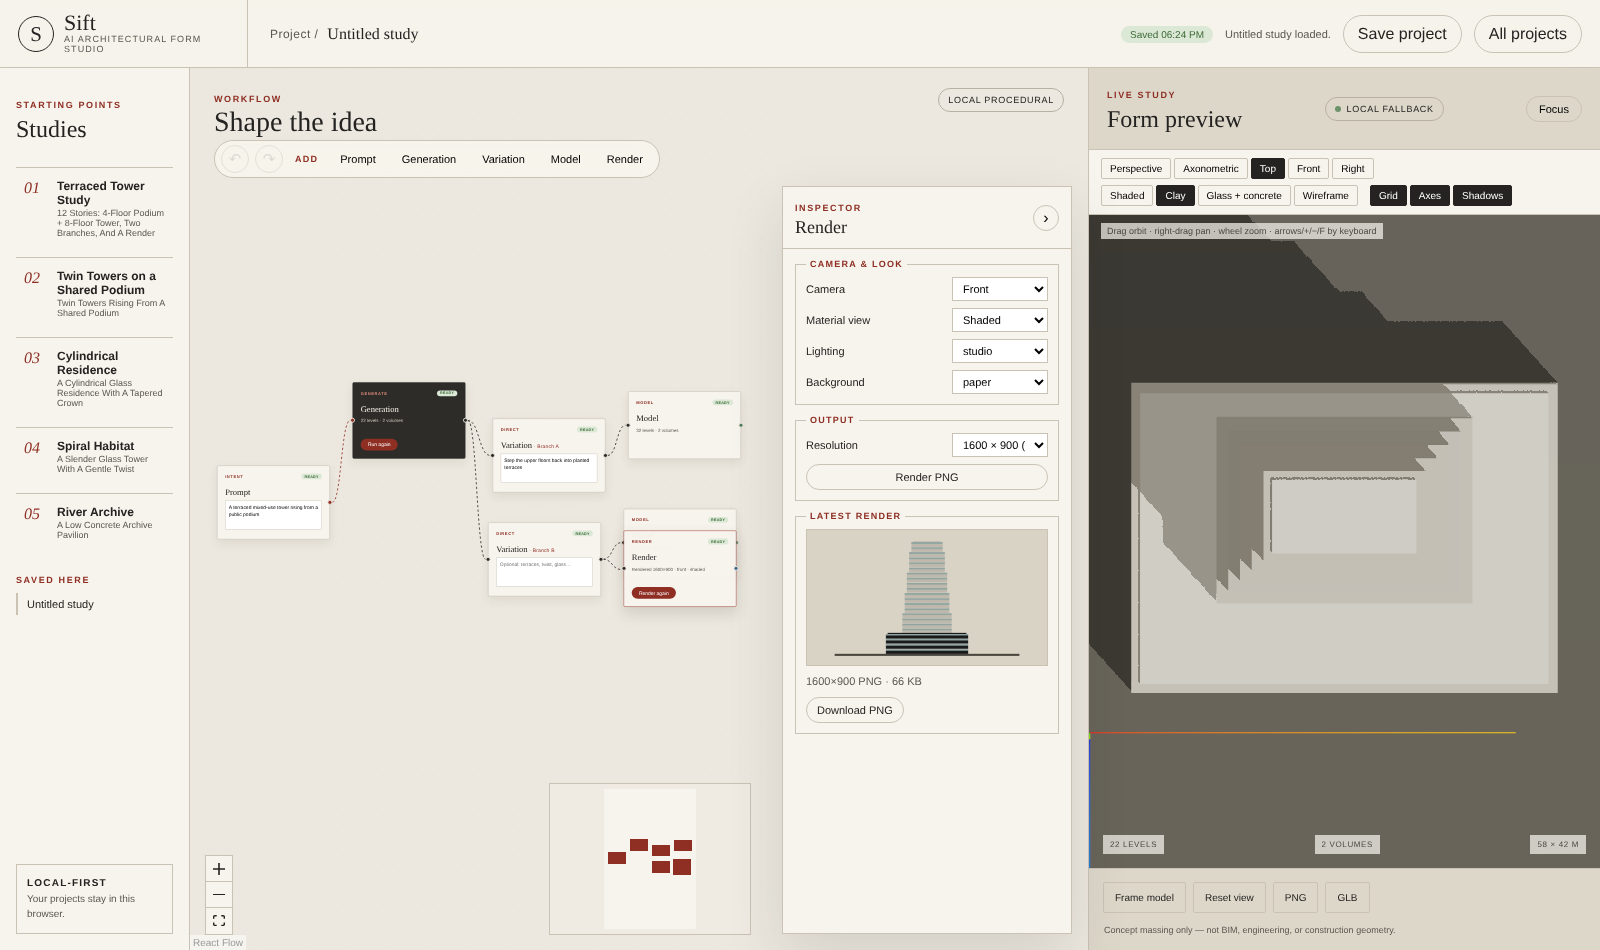
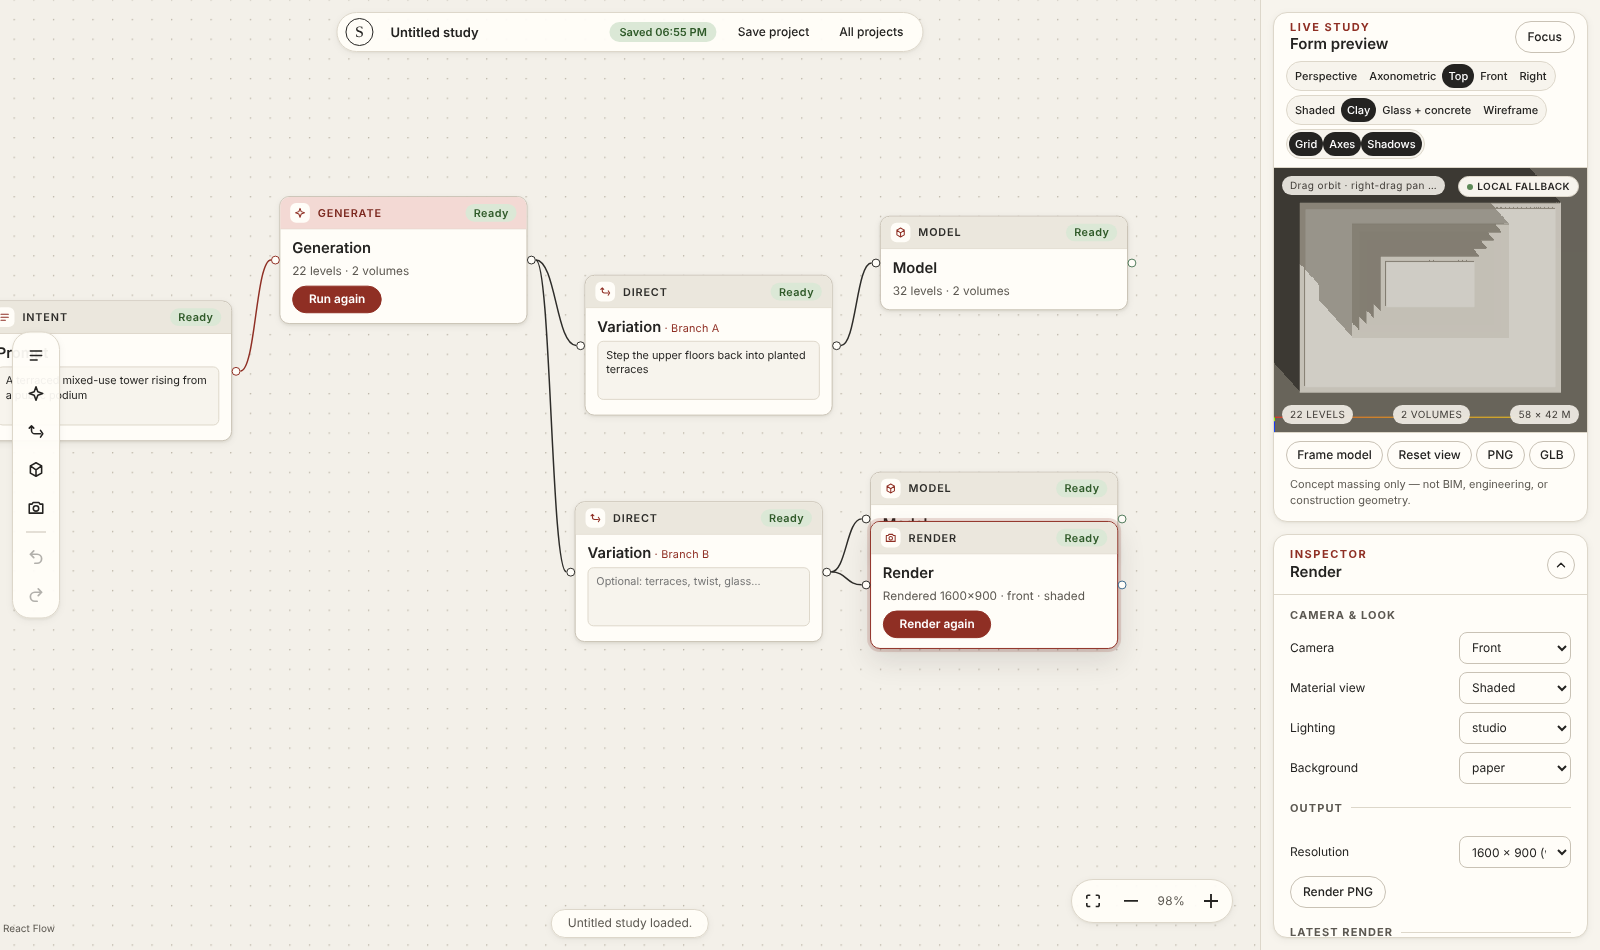
Dead-code cleanup: remove lineageOf, add @eslint/js, refresh evidence screenshots for the current UI
Claude-Session: https://claude.ai/code/session_017MLLks6UEDc3Auc7NodS6K

diff --git a/src/lib/workflow.ts b/src/lib/workflow.ts
@@ -294,24 +294,6 @@ export function commitVariations(state: RunInput, newId: (prefix: string) => str
 
 export type LineageEntry = { artifactId: string; createdAt: string; origin: string; instruction: string; current: boolean };
 
-/** Root-to-leaf chain of artifacts ending at `artifactId`, following revisions back to the original generation. */
-export function lineageOf(revisions: Record<string, DesignRevision>, artifacts: Record<string, Artifact>, artifactId: string | undefined): LineageEntry[] {
-  const chain: LineageEntry[] = [];
-  const seen = new Set<string>();
-  let current = artifactId;
-  let instruction = "";
-  while (current && artifacts[current] && !seen.has(current)) {
-    seen.add(current);
-    const artifact = artifacts[current];
-    chain.unshift({ artifactId: current, createdAt: artifact.createdAt, origin: String(artifact.metadata.origin ?? "generation"), instruction, current: current === artifactId });
-    const revision = Object.values(revisions).find((item) => item.childArtifactId === current);
-    instruction = revision?.instruction ?? "";
-    current = revision?.parentArtifactId;
-  }
-  // instruction describes the step that *produced* each entry, so shift it down by one position.
-  return chain.map((entry, index) => ({ ...entry, instruction: index === 0 ? "Original generation" : Object.values(revisions).find((item) => item.childArtifactId === entry.artifactId)?.instruction ?? "" }));
-}
-
 /** Every artifact a node has produced, oldest first, with the instruction of the revision that created it. */
 export function versionsOf(state: Pick<RunInput, "artifacts" | "revisions">, nodeId: string, currentId?: string): LineageEntry[] {
   return Object.values(state.artifacts)

diff --git a/src/lib/branching.test.ts b/src/lib/branching.test.ts
@@ -1,7 +1,7 @@
 import { describe, expect, it } from "vitest";
 import { siftProjectV2Schema } from "./contracts";
 import { createWorkflowProject, workflowGraph } from "./projects";
-import { branchFrom, commitVariations, editNodeGeometry, evaluateGraph, lineageOf, restoreVersion, runGeneration, versionsOf, type RunInput } from "./workflow";
+import { branchFrom, commitVariations, editNodeGeometry, evaluateGraph, restoreVersion, runGeneration, versionsOf, type RunInput } from "./workflow";
 
 const NOW = "2026-10-09T10:00:00.000Z";
 let n = 0;
@@ -59,7 +59,6 @@ describe("two branches with lineage", () => {
     expect(revs).toHaveLength(2);
     revs.forEach((r) => expect(r.parentArtifactId).toBe("a1"));
     expect(revs.map((r) => r.change).sort()).toEqual(["parameters", "prompt"]);
-    expect(lineageOf(state.revisions, state.artifacts, branchArtifacts[1]).map((e) => e.artifactId)).toEqual(["a1", branchArtifacts[1]]);
   });
   it("is idempotent and skips pass-through variations", () => {
     const state = build();

diff --git a/docs/HANDOFF.md b/docs/HANDOFF.md
@@ -2,6 +2,13 @@
 
 Append newest entries first. Keep facts in `STATUS.md`; use this log for what changed and what the next agent should do.
 
+## 2026-10-31 — Claude — dead-code cleanup
+
+- Removed `lineageOf` (dead in production; only a test used it) and its assertion; added `@eslint/js` as an explicit devDependency (eslint config imports it); regenerated `docs/evidence/` from the current UI (`E2E_EVIDENCE=1`) and deleted the two stale Meshy-era screenshots (`09-hosted-model.png`, `09-paid-confirmation.png`; replaced by `*-tripo` versions).
+- Audit method: scripted export-usage scan (no exports are fully unused; 28 are test-only — legitimate seams such as fixtures, `toLegacyProject`, `resetSpendLimiterForTests`), `tsc --noUnusedLocals/--noUnusedParameters` clean, dependency and CSS-class scans (only peer/type packages and dynamic class names flagged — false positives), no commented-out code or TODOs.
+- Deliberately not done: removing the `export` keyword from ~80 symbols used only inside their own file (churn, no behavior gain); the legacy PyTorch files and `results/` (owner decision still pending — AGENTS.md forbids silent deletion).
+- Checks: tsc, eslint, 258 unit tests, 33 Playwright tests, `npm audit` clean.
+
 ## 2026-10-30 — Claude — architectural steering for Tripo prompts
 
 - Added `src/lib/providers/architectural-style.ts` (ADR-020): brief-first prompt with contemporary-architecture clauses + a `negative_prompt` against vernacular/gothic/toy looks (terms the brief uses are exempt); retry once without `negative_prompt` if Tripo rejects it. Removed the old `composeArchitecturalPrompt` from `massing.ts`.
